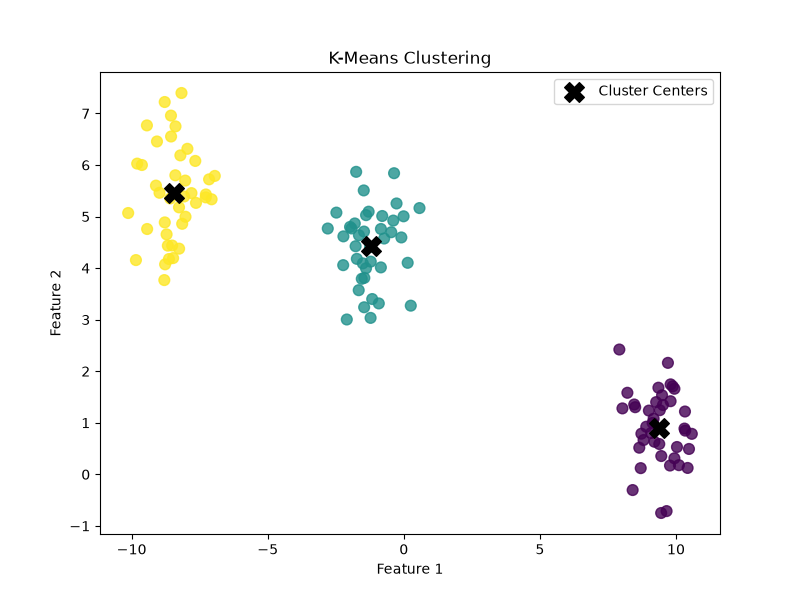
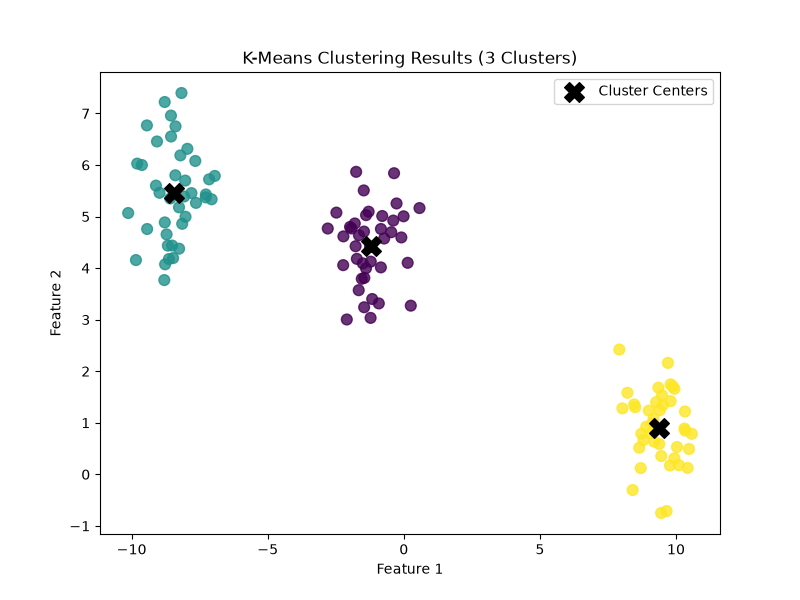
Fix and Update Task 5

diff --git a/assignments_02/project_02.py b/assignments_02/project_02.py
@@ -186,7 +186,22 @@ print(f"Test R²: {r2_b:.4f}")
 print("\n--- TASK 5: BUILD THE FULL MODEL ---")
 
 # Explicit feature list configuration
-feature_cols = ["failures", "Medu", "Fedu", "studytime", "higher", "schoolsup", "internet", "sex", "freetime", "activities", "traveltime"]
+feature_cols = ["age",
+    "Medu",
+    "Fedu",
+    "traveltime",
+    "studytime",
+    "failures",
+    "absences",
+    "freetime",
+    "goout",
+    "Walc",
+    "schoolsup",
+    "internet",
+    "higher",
+    "activities",
+    "sex"
+]
 
 X = df_clean[feature_cols].values
 y = df_clean["G3"].values
@@ -251,21 +266,35 @@ plt.savefig("outputs/predicted_vs_actual.png")
 plt.close()
 
 # COMMENT (Plot Interpretation):
-# The model struggles significantly at the extremes. On the low end (actual grades below 8), 
-# the model heavily overpredicts because it clusters predictions tightly between 10 and 13.
-# A point ABOVE the diagonal means the actual grade was higher than predicted (underestimation). 
-# A point BELOW the diagonal means the actual grade was lower than predicted (overestimation).
+# The model captures a moderate relationship between predicted and actual grades,
+# but it has difficulty with extreme values. For very high grades, the model often
+# underpredicts performance, while for very low grades it tends to overpredict,
+# pulling predictions closer toward the average range.
+# predictions (x-axis) are not tightly clustered only between 10 and 13.
+# They mostly fall around that range, but there are predictions from about 7 to 15.
+
+# A point ABOVE the diagonal line means the actual grade was higher than the
+# predicted grade, indicating underestimation by the model.
+# A point BELOW the diagonal line means the actual grade was lower than the
+# predicted grade, indicating overestimation by the model.
 
 # SUMMARY COMMENTS:
 # 1. The filtered dataset contains 357 rows (out of 395 originally), making the 20% test set 72 rows.
-# 2. Performance: The best model achieves a test RMSE of ~2.9 points and an R² of ~0.17. 
-#    a typical grade prediction is off by roughly 3 points on a 0-20 scale. It only accounts 
-#    for 17% of why grades differ between students.
-# 3. Key Drivers: 'higher' (wants to take higher education) has the largest positive coefficient, meaning 
-#    high motivation yields higher scores. 'failures' has the largest negative coefficient, meaning past 
-#    academic struggles strongly drag down final performance.
-# 4. Surprise: Father's education ('Fedu') matters noticeably less than Mother's education ('Medu') 
-#    according to the calculated coefficients.
+#
+# 2. Performance: The full model achieves a test RMSE of approximately 2.66 points
+#    and a test R² of approximately 0.26. This means predictions are typically off
+#    by about 2.7 grade points on a 0-20 scale, and the model explains about 26%
+#    of the variation in final grades.
+#
+# 3. Key Drivers: 'schoolsup' has the largest negative coefficient (-2.263), suggesting
+#    that students receiving school support tend to have lower predicted grades,
+#    possibly because support is provided to students who are already struggling.
+#    'internet' has the largest positive coefficient (+1.037), while 'failures'
+#    has a strong negative relationship (-0.800) with final grades.
+#
+# 4. Surprise: Unlike the original expectation that education level would be a major
+#    factor, parental education coefficients are relatively small compared with
+#    features such as failures, schoolsup, and internet access.
 
 
 # NEGLECTED FEATURE: THE POWER OF G1
@@ -292,13 +321,21 @@ test_r2_g1 = r2_score(y_test_g, y_pred_test_g)
 print(f"Test R² with G1 included: {test_r2_g1:.4f}")
 
 # COMMENT (The Power of G1):
-# 1. Does a high R² mean G1 causes G3? No, correlation is not causation. G1 does not "cause" G3; 
-#    rather, G1 acts as an early, direct measurement of the *same underlying academic performance* 
-#    and mastery of the subject matter that G3 tests later on.
-# 2. Usefulness for Identification: Yes, it is highly useful for identifying students who are already 
-#    struggling by the end of the first period, providing a clear statistical flag for intervention.
-# 3. Early Intervention: If educators want to intervene *before* G1 data is even available, they 
-#    cannot rely on this high-performing model. They would need to look back at our Task 5 behavioral 
-#    model, prioritizing interventions based on student background indicators such as past class failures 
-#    or whether the student lacks a desire to pursue higher education ('higher' = 0).
+# 1. Does a high R² here mean G1 is causing G3?
+# No. A high R² does not mean G1 causes G3. Instead, G1 is a strong predictor
+# because it measures a student's earlier academic performance, which is closely
+# related to their final grade. The relationship shows predictive power, not
+# causation.
+#
+# 2. Is this a useful model for identifying students who might struggle?
+# Yes. Since G1 is available before the final grade, this model can identify
+# students who are already showing signs of academic difficulty and may need
+# additional support before the end of the course.
+#
+# 3. What would educators need to do to intervene early, before G1 is available?
+# Before G1 exists, educators cannot rely on this high-performing model. They
+# would need to use other early indicators from the Task 5 model, such as past
+# failures, study habits, attendance, support needs, and student background
+# characteristics to identify students who may need intervention.
+
 

diff --git a/assignments_02/warmup_02.py b/assignments_02/warmup_02.py
@@ -47,7 +47,7 @@ print("New Shape:", x.shape)
 X_clusters, _ = make_blobs(n_samples=120, centers=3, cluster_std=0.8, random_state=7)
 print("Dataset Shape", X_clusters.shape)
 
-kmeans = KMeans(n_clusters=3, random_state=7)  # 1. Create the model
+kmeans = KMeans(n_clusters=3, random_state=42)  # 1. Create the model
 kmeans.fit(X_clusters)                                    # 2. Fit -- find cluster centers
 labels = kmeans.predict(X_clusters)                       # 3. Predict a label for each point
 
@@ -83,7 +83,7 @@ plt.scatter(
 )
 
 # Add title and axis labels
-plt.title("K-Means Clustering")
+plt.title("K-Means Clustering Results (3 Clusters)")
 plt.xlabel("Feature 1")
 plt.ylabel("Feature 2")
 plt.legend()
